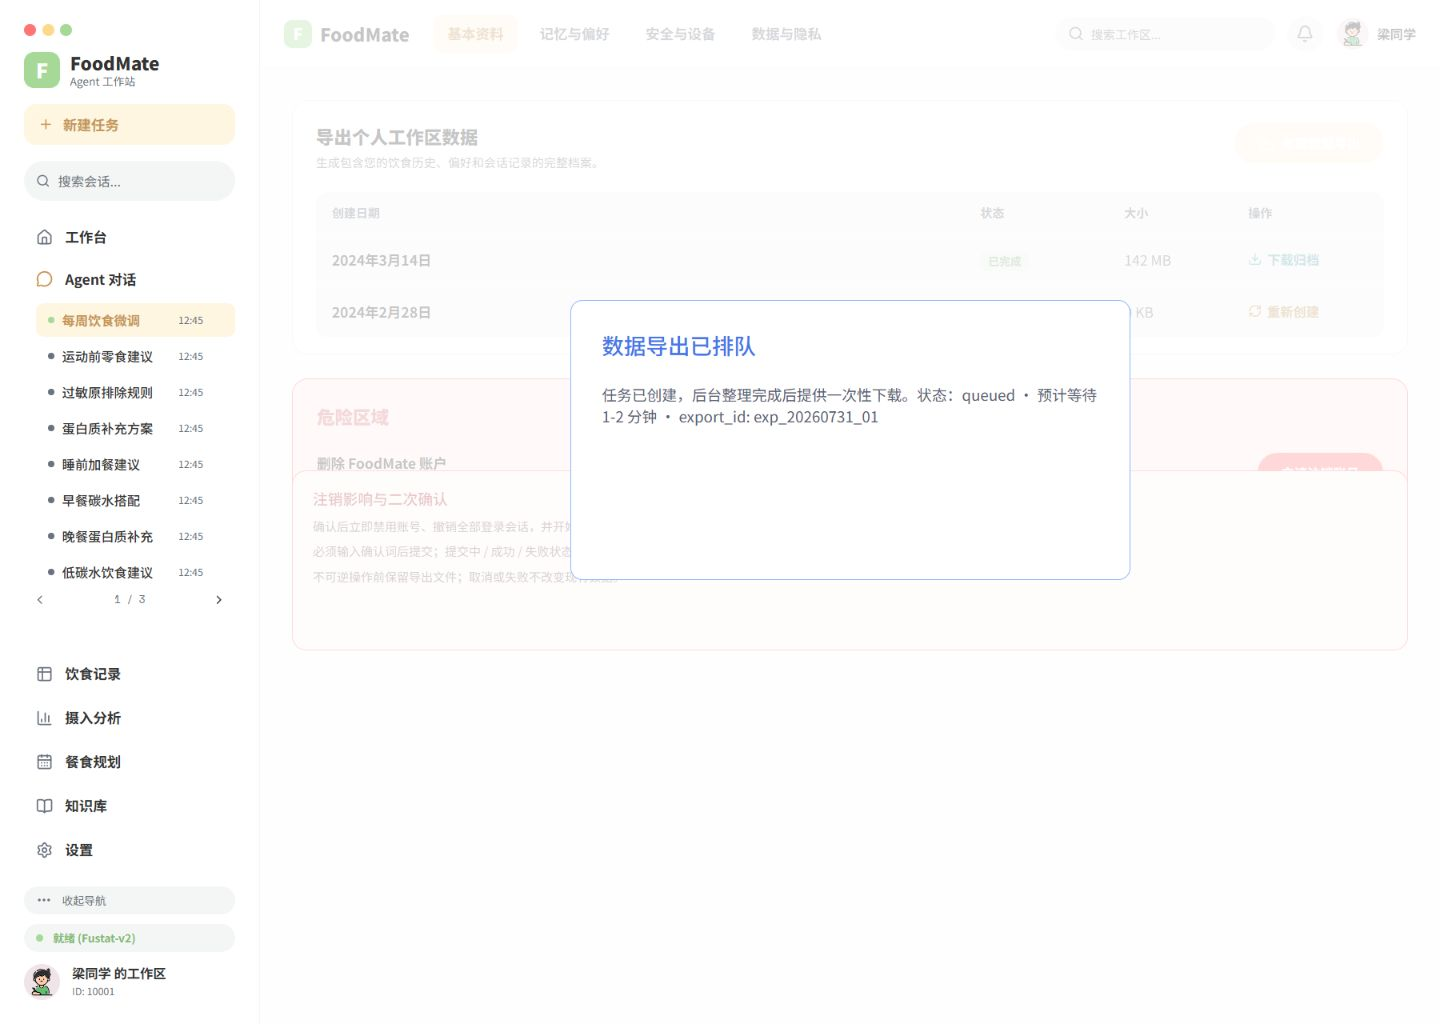
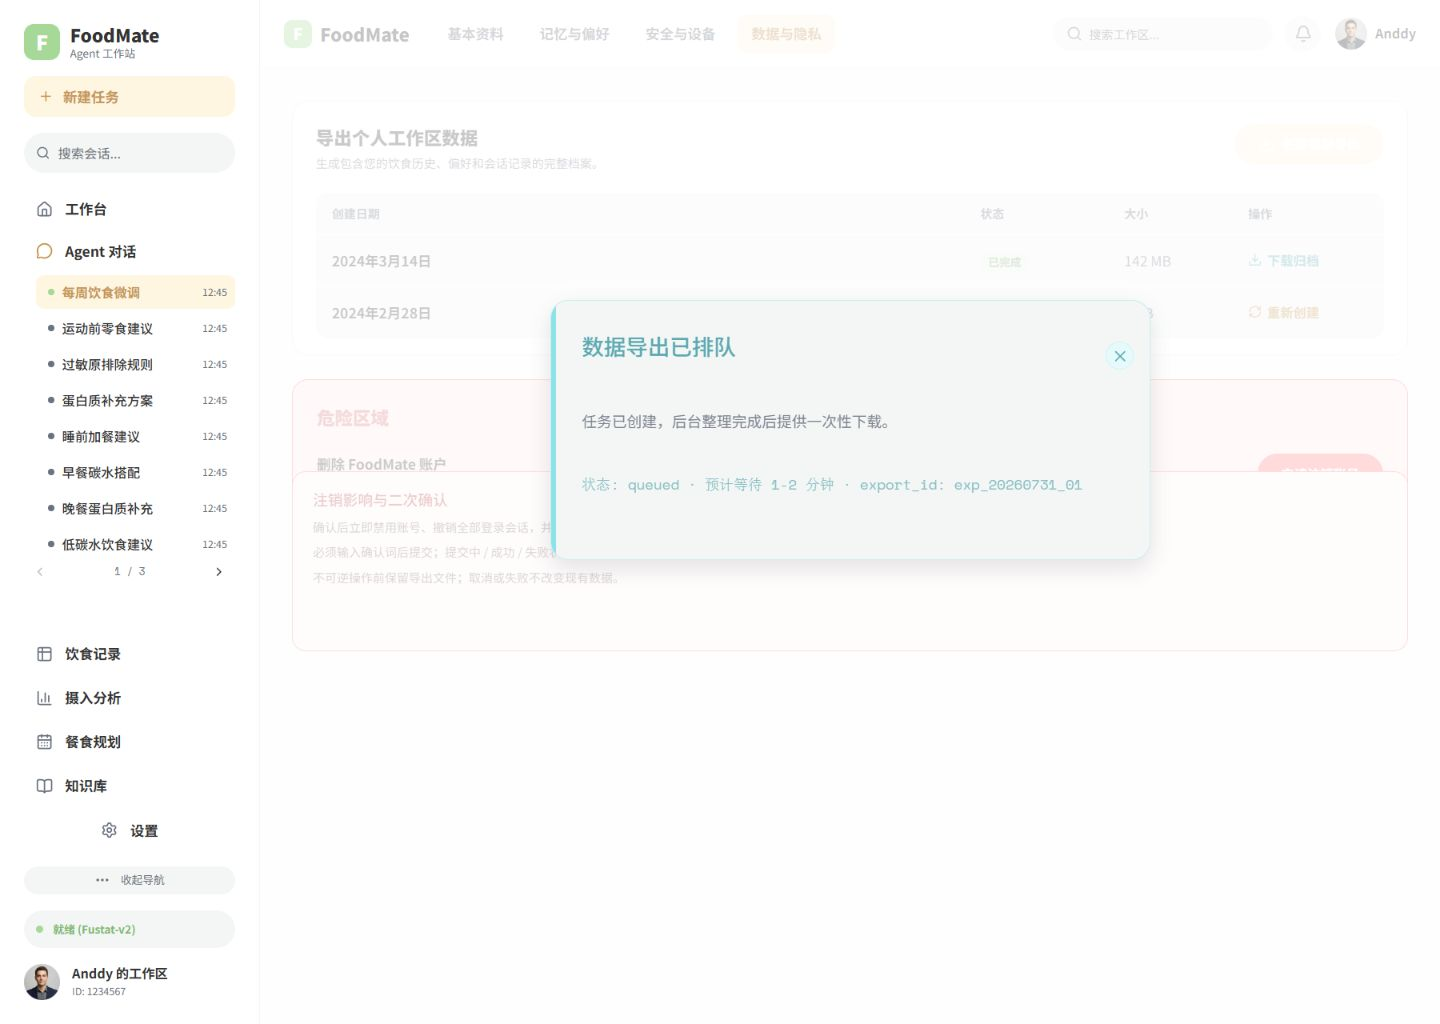
fix(个人中心): 对齐数据导出排队状态

diff --git a/foodmate-ui/src/pages/ProfilePage/ProfilePage.tsx b/foodmate-ui/src/pages/ProfilePage/ProfilePage.tsx
@@ -336,7 +336,7 @@ function ProfileFixtureOverlay({ state, onDismiss }: { state: ProfileFixtureStat
               : state === 'security-password-failed'
                 ? '当前密码不正确或服务暂不可用，请重新填写。错误码：PASSWORD_UPDATE_FAILED · request_id: req_pwd_8d10'
                 : state === 'privacy-export-queued'
-                  ? '任务已创建，后台整理完成后提供一次性下载。状态：queued · 预计等待 1-2 分钟 · export_id: exp_20260731_01'
+                  ? '任务已创建，后台整理完成后提供一次性下载。状态: queued · 预计等待 1-2 分钟 · export_id: exp_20260731_01'
                   : state === 'privacy-export-running'
                     ? '正在脱敏并打包数据，完成后会显示一次性下载入口。状态：running · 已处理 68% · export_id: exp_20260731_01'
                     : state === 'privacy-export-expired'
@@ -357,6 +357,7 @@ function ProfileFixtureOverlay({ state, onDismiss }: { state: ProfileFixtureStat
     state === 'privacy-export-running';
   const isLogoutConfirmation = state === 'security-logout-confirm';
   const isDeleteConfirmation = state === 'privacy-delete-confirm';
+  const isExportQueued = state === 'privacy-export-queued';
   return (
     <div
       className={cn(
@@ -364,6 +365,7 @@ function ProfileFixtureOverlay({ state, onDismiss }: { state: ProfileFixtureStat
         isSuccess ? styles.fixtureOverlaySuccess : undefined,
         isLogoutConfirmation ? styles.fixtureOverlayLogout : undefined,
         isDeleteConfirmation ? styles.fixtureOverlayDelete : undefined,
+        isExportQueued ? styles.fixtureOverlayExportQueued : undefined,
       )}
       role="presentation"
     >
@@ -373,11 +375,24 @@ function ProfileFixtureOverlay({ state, onDismiss }: { state: ProfileFixtureStat
           isError ? styles.fixtureModalError : undefined,
           isLogoutConfirmation ? styles.fixtureModalLogout : undefined,
           isDeleteConfirmation ? styles.fixtureModalDelete : undefined,
+          isExportQueued ? styles.fixtureModalExportQueued : undefined,
         )}
         role="alert"
         aria-live="polite"
       >
-        {isDeleteConfirmation ? (
+        {isExportQueued ? (
+          <>
+            <span className={styles.fixtureExportQueuedAccent} aria-hidden="true" />
+            <h2 className={styles.fixtureExportQueuedTitle}>{title}</h2>
+            <p className={styles.fixtureExportQueuedDetail}>任务已创建，后台整理完成后提供一次性下载。</p>
+            <p className={styles.fixtureExportQueuedStatus}>
+              状态: queued · 预计等待 1-2 分钟 · export_id: exp_20260731_01
+            </p>
+            <Button className={styles.fixtureExportQueuedClose} variant="ghost" aria-label="关闭" onClick={onDismiss}>
+              <X aria-hidden="true" />
+            </Button>
+          </>
+        ) : isDeleteConfirmation ? (
           <>
             <p className={styles.fixtureDeleteEyebrow}>DANGER ZONE · CONFIRM</p>
             <h2 className={styles.fixtureDeleteTitle}>{title}</h2>

diff --git a/foodmate-ui/src/pages/ProfilePage/ProfilePage.module.css b/foodmate-ui/src/pages/ProfilePage/ProfilePage.module.css
@@ -1606,6 +1606,11 @@
   background: rgb(31 20 18 / 18%);
 }
 
+.fixtureOverlayExportQueued {
+  inset: 0 0 0 260px;
+  background: rgb(255 255 255 / 72%);
+}
+
 .fixtureModal {
   position: absolute;
   top: 300px;
@@ -1645,6 +1650,21 @@
   border-color: #f2b8a3;
   border-radius: 18px;
   background: #fffcfa;
+  overflow: hidden;
+  transform: none;
+}
+
+.fixtureModalExportQueued {
+  top: 300px;
+  left: 290px;
+  width: 600px;
+  height: 260px;
+  min-height: 0;
+  padding: 0;
+  border-color: rgb(128 224 230 / 34%);
+  border-radius: 18px;
+  background: #f4f6f5;
+  box-shadow: 0 8px 22px rgb(26 33 46 / 12%);
   overflow: hidden;
   transform: none;
 }
@@ -1834,6 +1854,79 @@
   color: #fff;
 }
 
+.fixtureExportQueuedAccent {
+  position: absolute;
+  top: -1px;
+  left: -1px;
+  width: 6px;
+  height: 260px;
+  border-radius: 3px;
+  background: rgb(128 224 230 / 90%);
+}
+
+.fixtureExportQueuedTitle,
+.fixtureExportQueuedDetail,
+.fixtureExportQueuedStatus {
+  position: absolute;
+  left: 31px;
+  width: 520px;
+  margin: 0;
+  font-family: var(--font-ui);
+  font-weight: 400;
+  text-align: left;
+}
+
+.fixtureModal h2.fixtureExportQueuedTitle {
+  top: 31px;
+  color: #5da9b2;
+  font-size: 22px;
+  line-height: 28px;
+}
+
+.fixtureModal p.fixtureExportQueuedDetail {
+  top: 85px;
+  color: rgb(107 114 128 / 86%);
+  font-size: 15px;
+  line-height: 22px;
+}
+
+.fixtureModal p.fixtureExportQueuedStatus {
+  top: 149px;
+  color: rgb(93 169 178 / 72%);
+  font-family: var(--font-mono);
+  font-size: 14px;
+  line-height: 22px;
+}
+
+.fixtureExportQueuedClose {
+  position: absolute;
+  top: 13px;
+  left: 555px;
+  display: inline-flex;
+  width: 28px;
+  height: 28px;
+  min-height: 28px;
+  align-items: center;
+  justify-content: center;
+  padding: 0;
+  border: 1px solid rgb(128 224 230 / 24%);
+  border-radius: 14px;
+  background: #e7fafb;
+  color: rgb(93 169 178 / 90%);
+  box-shadow: none;
+}
+
+.fixtureExportQueuedClose:hover,
+.fixtureExportQueuedClose:focus-visible {
+  background: #d9f4f6;
+  color: #5da9b2;
+}
+
+.fixtureExportQueuedClose svg {
+  width: 18px;
+  height: 18px;
+}
+
 .fixtureLogoutActions {
   position: absolute;
   top: 273px;
@@ -1983,6 +2076,16 @@
     padding: 24px;
     transform: translateY(-50%);
   }
+  .fixtureOverlayExportQueued {
+    inset: 0;
+  }
+  .fixtureModalExportQueued {
+    top: 50%;
+    left: 16px;
+    width: calc(100% - 32px);
+    height: 260px;
+    transform: translateY(-50%);
+  }
   .fixtureLogoutEyebrow,
   .fixtureLogoutTitle,
   .fixtureLogoutDetail,
@@ -2032,6 +2135,19 @@
     top: auto;
     bottom: 24px;
     right: 24px;
+    left: auto;
+  }
+  .fixtureExportQueuedTitle,
+  .fixtureExportQueuedDetail,
+  .fixtureExportQueuedStatus {
+    left: 24px;
+    width: calc(100% - 48px);
+  }
+  .fixtureExportQueuedStatus {
+    line-height: 20px;
+  }
+  .fixtureExportQueuedClose {
+    right: 13px;
     left: auto;
   }
   .fixturePanel {

diff --git a/foodmate-ui/src/pages/ProfilePage/ProfilePage.test.tsx b/foodmate-ui/src/pages/ProfilePage/ProfilePage.test.tsx
@@ -110,6 +110,21 @@ describe('ProfilePage', () => {
     expect(screen.queryByRole('heading', { name: '确认注销 FoodMate 账号' })).not.toBeInTheDocument();
   });
 
+  it('renders and dismisses the Figma export queued fixture', async () => {
+    const user = userEvent.setup();
+    renderPage('/profile?state=privacy-export-queued');
+
+    expect(screen.getByRole('heading', { name: '数据导出已排队' })).toBeInTheDocument();
+    expect(screen.getByText('任务已创建，后台整理完成后提供一次性下载。')).toBeInTheDocument();
+    expect(screen.getByText('状态: queued · 预计等待 1-2 分钟 · export_id: exp_20260731_01')).toBeInTheDocument();
+    expect(screen.getByRole('button', { name: '关闭' })).toBeInTheDocument();
+    expect(screen.queryByText('状态：queued')).not.toBeInTheDocument();
+
+    await user.click(screen.getByRole('button', { name: '关闭' }));
+
+    expect(screen.queryByRole('heading', { name: '数据导出已排队' })).not.toBeInTheDocument();
+  });
+
   it('edits profile fields and manages allergens before saving', async () => {
     const user = userEvent.setup();
     renderPage('/profile');
